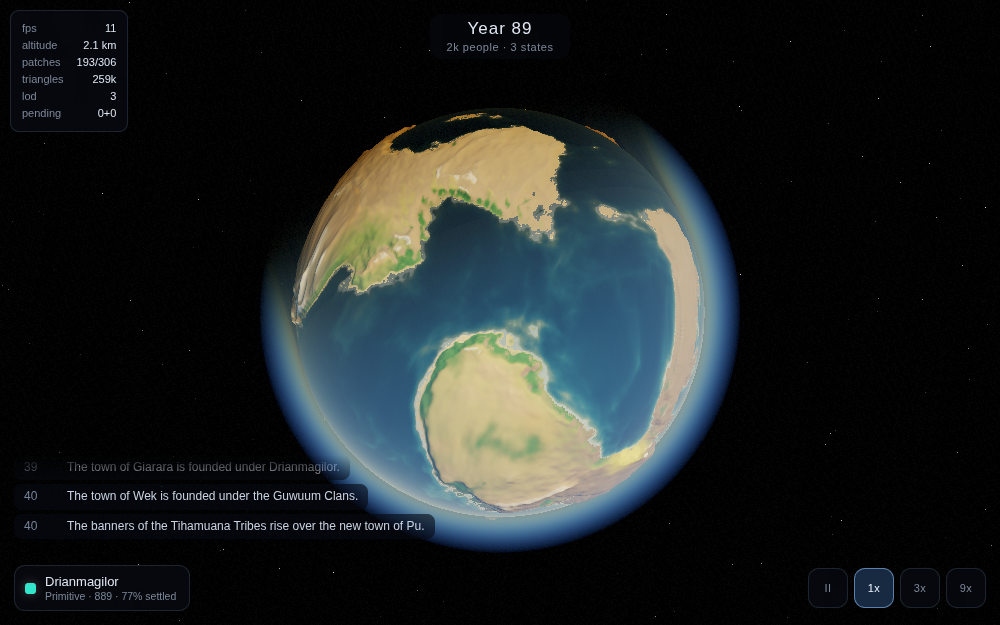
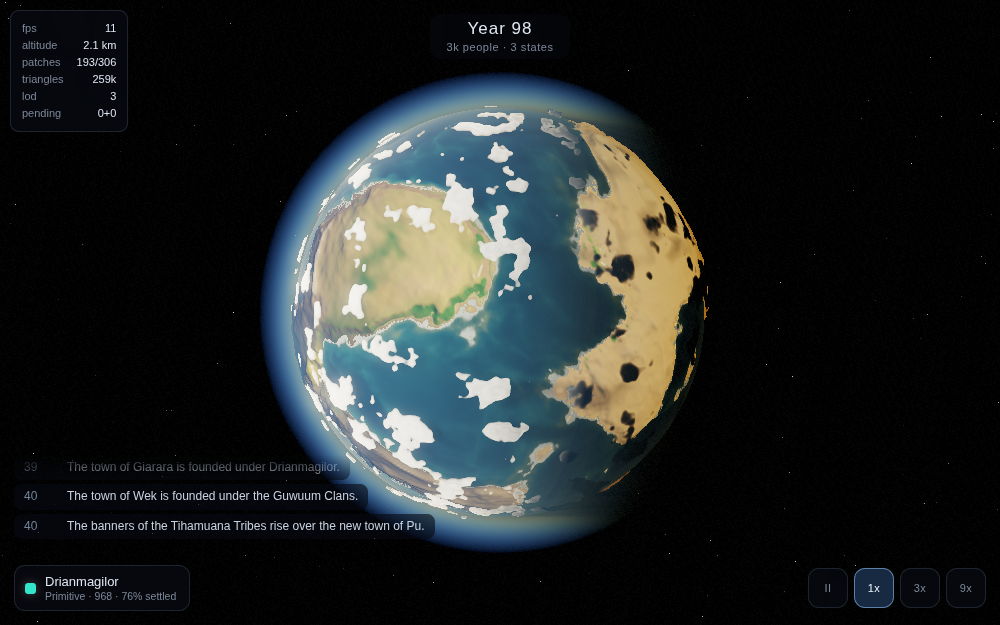
Add volumetric clouds, with shadows on the ground
A raymarched deck above the surface, split into a cheap coverage field
and an expensive detail field. Coverage is a function of direction alone
and decides whether there is any cloud along a ray at all; only where it
says yes does the march pay for the three-dimensional structure. Over
open sky a ray costs almost nothing, which is what makes a volumetric
layer affordable at all.

Samples march towards the sun for self-shadowing, with a floor so the
underside of a cloud is grey rather than black, and a forward-scattering
phase function for the bright rim when the sun is behind one. Clouds
also shadow the ground, using a single coverage sample taken where the
sun ray leaving a point crosses the middle of the deck — a full march
would be honest and ten times the cost, and nobody can tell a real
shadow from a correctly placed one.

Four things had to be got right, all of which were wrong first:

Feature scale. Detail was written at metre frequencies, so from orbit it
sampled far below the pixel footprint and rendered as grey static. It is
now band-limited by footprint exactly as the wave stack is, which also
happens to be what you see from space: cloud systems, not puffs.

Coverage scale. A frequency of 2 on a unit direction puts about five
noise cells on the entire planet, which produced one continent-sized
blob. The frequencies now come from how large a weather system should be
on the ground: banks of roughly 120, 50 and 22 metres.
[…]

Changed region(s): [[0.248, 0.0912, 0.744, 0.8816], [0.496, 0.0304, 0.527, 0.0608]]

diff --git a/src/render/post/compositeShader.ts b/src/render/post/compositeShader.ts
@@ -52,6 +52,11 @@ uniform float uAtmosphereStrength;
 uniform float uProjScale;
 uniform float uTanHalfFov;
 
+uniform float uCloudBottom;
+uniform float uCloudTop;
+uniform float uCloudCoverage;
+uniform float uCloudDensity;
+
 varying vec2 vUv;
 
 ${GLSL_NOISE}
@@ -66,6 +71,12 @@ const float PI = 3.141592653589793;
 #endif
 #ifndef LIGHT_STEPS
 #define LIGHT_STEPS 5
+#endif
+#ifndef CLOUD_STEPS
+#define CLOUD_STEPS 14
+#endif
+#ifndef CLOUD_LIGHT_STEPS
+#define CLOUD_LIGHT_STEPS 3
 #endif
 
 /** Convert a non-linear depth sample to a positive view-space distance. */
@@ -298,6 +309,193 @@ float shoreSurge(vec3 pos) {
   float phase = vnoise(pos * 0.012) * 6.2831853;
   return 0.5 + 0.5 * sin(uTime * 0.55 + phase);
 }
+
+/* ----------------------------------------------------------------- clouds */
+
+/*
+ * Volumetric clouds, raymarched through a shell above the surface.
+ *
+ * Split deliberately into a cheap coverage field and an expensive detail
+ * field. Coverage is a function of direction alone — two noise samples — and
+ * decides whether there is any cloud along this part of the sky at all. Only
+ * where it says yes does the march pay for the three-dimensional detail that
+ * gives a cloud its shape. Over open sky a ray costs almost nothing, which is
+ * what makes a volumetric layer affordable on a phone at all.
+ */
+
+/**
+ * Where cloud banks are, as a function of direction. Drifts with the wind.
+ *
+ * The frequencies are set from how big a weather system should be on the
+ * ground, not from convenient-looking numbers. A unit direction spans two units
+ * across the whole planet, so a frequency of 2 puts about five noise cells on
+ * the entire world — which is exactly what the first version did, and it
+ * produced one continent-sized blob rather than weather. At a radius of a
+ * thousand metres these give banks of roughly 120 m, 50 m and 22 m.
+ */
+float cloudCoverage(vec3 dir, float detail) {
+  vec3 wind = vec3(0.0, uTime * 0.006, uTime * 0.013);
+  float broad = vnoise(dir * 8.5 + wind);
+  float banks = vnoise(dir * 19.0 - wind * 1.7);
+  float c = broad * 0.62 + banks * 0.38;
+  if (detail > 0.01) {
+    c = mix(c, c * 0.82 + vnoise(dir * 44.0 + wind * 2.6) * 0.18, detail);
+  }
+  // Value noise clusters around its midpoint, so the threshold has to be sharp
+  // or half the sky ends up under thin cloud and the planet reads as
+  // permanently overcast.
+  return clamp((c - (1.0 - uCloudCoverage)) * 3.6, 0.0, 1.0);
+}
+
+/**
+ * Cloud density at a point inside the shell.
+ *
+ * The detail argument is how much fine structure survives at the current pixel
+ * footprint, on exactly the same principle as the wave stack: cloud features
+ * are tens of metres across, and asking for them when a pixel covers hundreds
+ * gives grey static rather than weather. It also happens to be what you see
+ * from space — cloud systems, not individual puffs.
+ */
+float cloudDensity(vec3 p, float coverage, float detail) {
+  if (coverage <= 0.001) return 0.0;
+
+  float h = length(p) - uPlanetRadius;
+  // Vertical profile: flat-bottomed, billowing towards the top, thinning out
+  // before the ceiling. This is most of what separates a cloud from fog.
+  float t = clamp((h - uCloudBottom) / max(uCloudTop - uCloudBottom, 0.001), 0.0, 1.0);
+  float profile = smoothstep(0.0, 0.16, t) * (1.0 - smoothstep(0.5, 1.0, t));
+  if (profile <= 0.001) return 0.0;
+
+  // Feature sizes in metres, on a planet with a one-kilometre radius: banks
+  // about eighty metres across, broken up at around twenty-five.
+  vec3 drift = vec3(uTime * 0.06, 0.0, uTime * 0.13);
+  float shape = vnoise(p * 0.012 + drift * 0.012);
+  float fine = detail > 0.01 ? vnoise(p * 0.041 - drift * 0.02) : 0.5;
+  float erosion = mix(shape, shape * 0.62 + fine * 0.38, detail);
+
+  // Erode the cloud from its edges inward, which is what makes cauliflower
+  // rather than a smooth blob.
+  float d = coverage * profile * 1.15 - erosion * 0.5;
+  return clamp(d, 0.0, 1.0) * uCloudDensity;
+}
+
+/** Henyey-Greenstein, strongly forward-scattering: the silver lining. */
+float cloudPhase(float mu) {
+  const float g = 0.42;
+  float g2 = g * g;
+  return (1.0 - g2) / (4.0 * PI * pow(1.0 + g2 - 2.0 * g * mu, 1.5));
+}
+
+/**
+ * March the cloud shell, returning the light it scatters towards the camera
+ * and the transmittance it leaves behind.
+ */
+void marchClouds(
+  vec3 origin,
+  vec3 dir,
+  float maxDist,
+  out vec3 scattered,
+  out float transmittance
+) {
+  scattered = vec3(0.0);
+  transmittance = 1.0;
+
+  float rBottom = uPlanetRadius + uCloudBottom;
+  float rTop = uPlanetRadius + uCloudTop;
+
+  vec2 outer = raySphere(origin, dir, rTop);
+  if (outer.y <= 0.0) return;
+
+  float tMin = max(outer.x, 0.0);
+  float tMax = min(outer.y, maxDist);
+
+  // From outside the shell looking down, the far wall is the inner sphere.
+  vec2 inner = raySphere(origin, dir, rBottom);
+  if (inner.x > 0.0) tMax = min(tMax, inner.x);
+  // From below the deck, the near wall is where the ray leaves the inner sphere.
+  else if (inner.y > 0.0) tMin = max(tMin, inner.y);
+
+  if (tMax <= tMin) return;
+
+  // How much fine structure a pixel can resolve out here. Twenty-five metre
+  // features need several pixels each to read as anything but noise.
+  float footprint = (tMin + tMax) * 0.5 / uProjScale;
+  float detail = 1.0 - smoothstep(2.0, 9.0, footprint);
+
+  float coverage = cloudCoverage(normalize(origin + dir * (tMin + tMax) * 0.5), detail);
+  if (coverage <= 0.001) return;
+
+  // Looking along the deck rather than through it, the path inside the shell
+  // can be hundreds of metres. Marching all of it with a fixed step count
+  // makes each step enormous, and the result is the stack of flat slabs a
+  // raymarch always produces when it is undersampled.
+  tMax = min(tMax, tMin + 380.0);
+
+  float ds = (tMax - tMin) / float(CLOUD_STEPS);
+
+  // Offset each ray's start by a per-pixel fraction of a step. This does not
+  // add samples; it turns the banding into noise, which the eye reads as cloud
+  // texture instead of as rings. A fixed hash rather than a time-varying one,
+  // because with no temporal accumulation an animated jitter just crawls.
+  float jitter = hash31(vec3(gl_FragCoord.xy, 17.0));
+  vec3 p = origin + dir * (tMin + ds * jitter);
+  float phase = cloudPhase(dot(dir, uSunDir));
+
+  for (int i = 0; i < CLOUD_STEPS; i++) {
+    // Coverage varies with direction, and the deck is eighteen metres thick on
+    // a thousand-metre planet, so it is sampled once per primary step and
+    // reused by that sample's march towards the sun. Sampling it again per
+    // light step quadrupled the cost of the pass for no visible difference.
+    float localCoverage = cloudCoverage(normalize(p), detail);
+    float d = cloudDensity(p, localCoverage, detail);
+    if (d > 0.002) {
+      // How much sunlight reaches this sample, by marching towards the sun.
+      float lightDepth = 0.0;
+      float ls = (uCloudTop - uCloudBottom) / float(CLOUD_LIGHT_STEPS);
+      vec3 lp = p + uSunDir * ls * 0.5;
+      for (int j = 0; j < CLOUD_LIGHT_STEPS; j++) {
+        lightDepth += cloudDensity(lp, localCoverage, detail) * ls;
+        lp += uSunDir * ls;
+      }
+      // Beer's law towards the sun, with a floor: the shaded side of a cloud
+      // is grey rather than black, because real clouds are lit from every
+      // direction by the sky and by each other.
+      float sunlight = exp(-lightDepth * 1.1);
+      sunlight = 0.16 + 0.84 * sunlight;
+      // Only the day side is lit at all.
+      float daylight = clamp(dot(normalize(p), uSunDir) * 3.0 + 0.35, 0.0, 1.0);
+
+      float extinction = exp(-d * ds);
+      vec3 lit = uSunColor * uSunIntensity * sunlight * daylight
+               * (0.55 + phase * 6.0) * 1.5;
+      // Energy-conserving front-to-back accumulation.
+      scattered += transmittance * (1.0 - extinction) * lit;
+      transmittance *= extinction;
+      if (transmittance < 0.012) break;
+    }
+    p += dir * ds;
+  }
+}
+
+/**
+ * Cloud shadow on the ground.
+ *
+ * One coverage sample, taken where the sun ray leaving this point crosses the
+ * middle of the cloud deck. A full march would be honest and ten times the
+ * cost, and at this scale nobody can tell the difference between a real shadow
+ * and a correctly placed one.
+ */
+float cloudShadow(vec3 surface) {
+  float mid = uPlanetRadius + (uCloudBottom + uCloudTop) * 0.5;
+  vec2 hit = raySphere(surface, uSunDir, mid);
+  if (hit.y <= 0.0) return 0.0;
+  vec3 p = surface + uSunDir * hit.y;
+  // Softened: the coverage field is deliberately hard-edged so that clouds
+  // have crisp silhouettes, but a shadow with the same edge reads as a hole
+  // punched in the ground rather than as an overcast patch.
+  return smoothstep(0.0, 0.75, cloudCoverage(normalize(p), 0.0));
+}
+
 void main() {
   // Reconstruct the world-space view ray for this pixel.
   vec4 far = uInvProjView * vec4(vUv * 2.0 - 1.0, 1.0, 1.0);
@@ -398,6 +596,27 @@ void main() {
 
     color = water;
     occluderDist = sea.x;
+  }
+
+  /* --- Cloud shadows ---------------------------------------------------- */
+  if (hitScene || occluderDist < 1e8) {
+    vec3 ground = uCameraPos + dir * occluderDist;
+    float shadow = cloudShadow(ground) * 0.3;
+    color *= 1.0 - shadow;
+  }
+
+  /* --- Clouds ----------------------------------------------------------- */
+  {
+    vec3 cloudLight;
+    float cloudTransmittance;
+    marchClouds(uCameraPos, dir, occluderDist, cloudLight, cloudTransmittance);
+    color = color * cloudTransmittance + cloudLight;
+    // Anything behind a cloud is no longer the nearest thing along this ray,
+    // so the atmosphere below it must not be integrated as if it were.
+    if (cloudTransmittance < 0.5) {
+      vec2 deck = raySphere(uCameraPos, dir, uPlanetRadius + uCloudTop);
+      if (deck.x > 0.0) occluderDist = min(occluderDist, deck.x);
+    }
   }
 
   /* --- Atmosphere ------------------------------------------------------- */

diff --git a/src/render/post/pipeline.ts b/src/render/post/pipeline.ts
@@ -161,6 +161,8 @@ export class RenderPipeline {
       defines: {
         PRIMARY_STEPS: quality.atmosphereSteps,
         LIGHT_STEPS: quality.atmosphereLightSteps,
+        CLOUD_STEPS: quality.cloudSteps,
+        CLOUD_LIGHT_STEPS: quality.cloudLightSteps,
       },
       uniforms: {
         tScene: { value: null },
@@ -191,6 +193,13 @@ export class RenderPipeline {
         uAtmosphereStrength: { value: 3.4 },
         uProjScale: { value: 1000 },
         uTanHalfFov: { value: 0.5 },
+        // Above the mountains, which top out at 26 m. Set lower, the deck
+        // intersects the terrain and reads as fog caught on a hillside rather
+        // than as weather overhead.
+        uCloudBottom: { value: 34 },
+        uCloudTop: { value: 66 },
+        uCloudCoverage: { value: 0.46 },
+        uCloudDensity: { value: quality.clouds ? 1.0 : 0.0 },
       },
       depthTest: false,
       depthWrite: false,
@@ -349,6 +358,11 @@ export class RenderPipeline {
 
   setBloom(strength: number): void {
     this.finalMaterial.uniforms.uBloomStrength.value = strength;
+  }
+
+  /** 0 is a clear sky, 1 is overcast. */
+  setCloudCoverage(value: number): void {
+    this.compositeMaterial.uniforms.uCloudCoverage.value = value;
   }
 
   /** Tuning knobs, exposed for the in-app debug panel. */

diff --git a/src/planet/config.ts b/src/planet/config.ts
@@ -73,6 +73,10 @@ export interface QualitySettings {
   atmosphereLightSteps: number;
   bloom: boolean;
   clouds: boolean;
+  /** Raymarch steps through the cloud deck. */
+  cloudSteps: number;
+  /** Steps towards the sun per cloud sample, for self-shadowing. */
+  cloudLightSteps: number;
   /** Render scale multiplier applied to the device pixel ratio. */
   renderScale: number;
   maxPixelRatio: number;
@@ -89,6 +93,8 @@ export const QUALITY: Record<QualityTier, QualitySettings> = {
     atmosphereLightSteps: 3,
     bloom: false,
     clouds: true,
+    cloudSteps: 7,
+    cloudLightSteps: 2,
     renderScale: 0.85,
     maxPixelRatio: 1.5,
   },
@@ -102,6 +108,8 @@ export const QUALITY: Record<QualityTier, QualitySettings> = {
     atmosphereLightSteps: 4,
     bloom: true,
     clouds: true,
+    cloudSteps: 11,
+    cloudLightSteps: 3,
     renderScale: 1,
     maxPixelRatio: 2,
   },
@@ -115,6 +123,8 @@ export const QUALITY: Record<QualityTier, QualitySettings> = {
     atmosphereLightSteps: 6,
     bloom: true,
     clouds: true,
+    cloudSteps: 16,
+    cloudLightSteps: 4,
     renderScale: 1,
     maxPixelRatio: 2,
   },

diff --git a/src/main.ts b/src/main.ts
@@ -19,6 +19,7 @@ const renderScale = params.has('scale') ? Number(params.get('scale')) : undefine
 const pixelError = params.has('lod') ? Number(params.get('lod')) : undefined;
 
 const bloom = params.has('bloom') ? Number(params.get('bloom')) : undefined;
+const clouds = params.has('clouds') ? Number(params.get('clouds')) : undefined;
 
 const cellCount = params.has('cells') ? Number(params.get('cells')) : undefined;
 const speed = params.has('speed') ? Number(params.get('speed')) : undefined;
@@ -30,6 +31,7 @@ const app = new PocketPlanetApp({
   renderScale,
   pixelError,
   bloom,
+  clouds,
   cellCount,
   speed,
 });

diff --git a/src/app.ts b/src/app.ts
@@ -29,6 +29,8 @@ export interface AppOptions {
   pixelError?: number;
   /** Override bloom strength. Zero disables it. */
   bloom?: number;
+  /** Cloud coverage, 0 clear to 1 overcast. */
+  clouds?: number;
 }
 
 export interface ViewState {
@@ -126,6 +128,7 @@ export class PocketPlanetApp {
     );
 
     if (opts.bloom !== undefined) this.pipeline.setBloom(opts.bloom);
+    if (opts.clouds !== undefined) this.pipeline.setCloudCoverage(opts.clouds);
 
     // The simulation runs in its own worker on its own clock, so history
     // advances at the same rate whether the renderer is managing 60 fps or 20.
